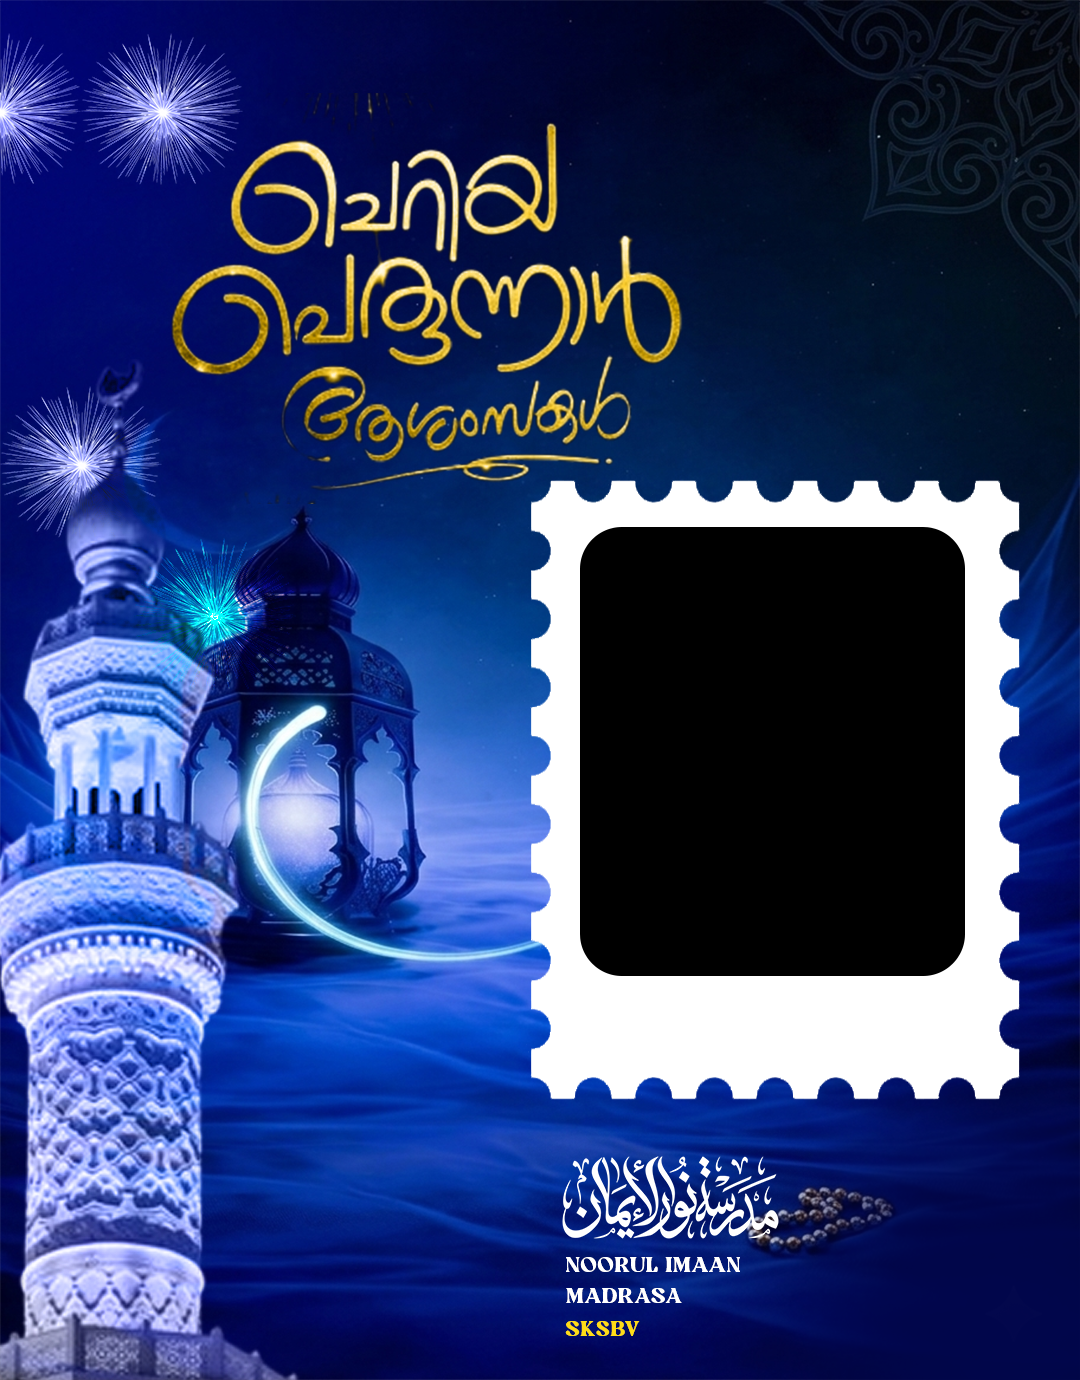
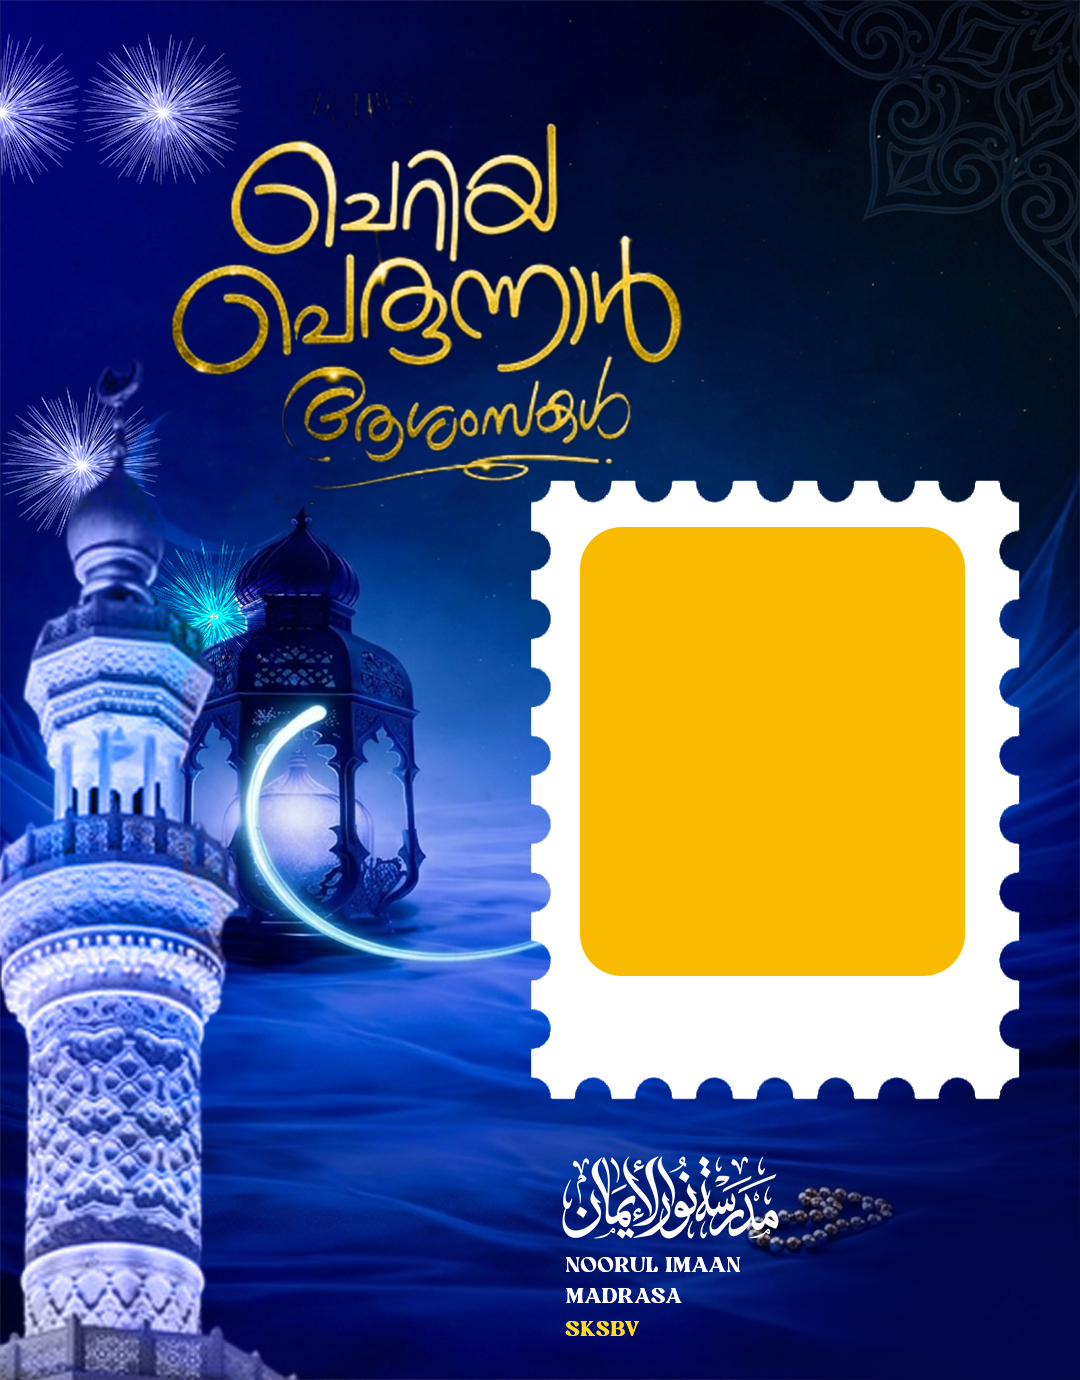
Add files via upload

Changed region(s): [[0.5194, 0.3739, 0.9167, 0.7167]]

diff --git a/script.js b/script.js
@@ -106,7 +106,7 @@ canvas.height = poster.height
 ctx.drawImage(poster,0,0)
 
 let width = 385 
-let height = 449
+let height = 460
 
 /* CENTER POSITION */
 
